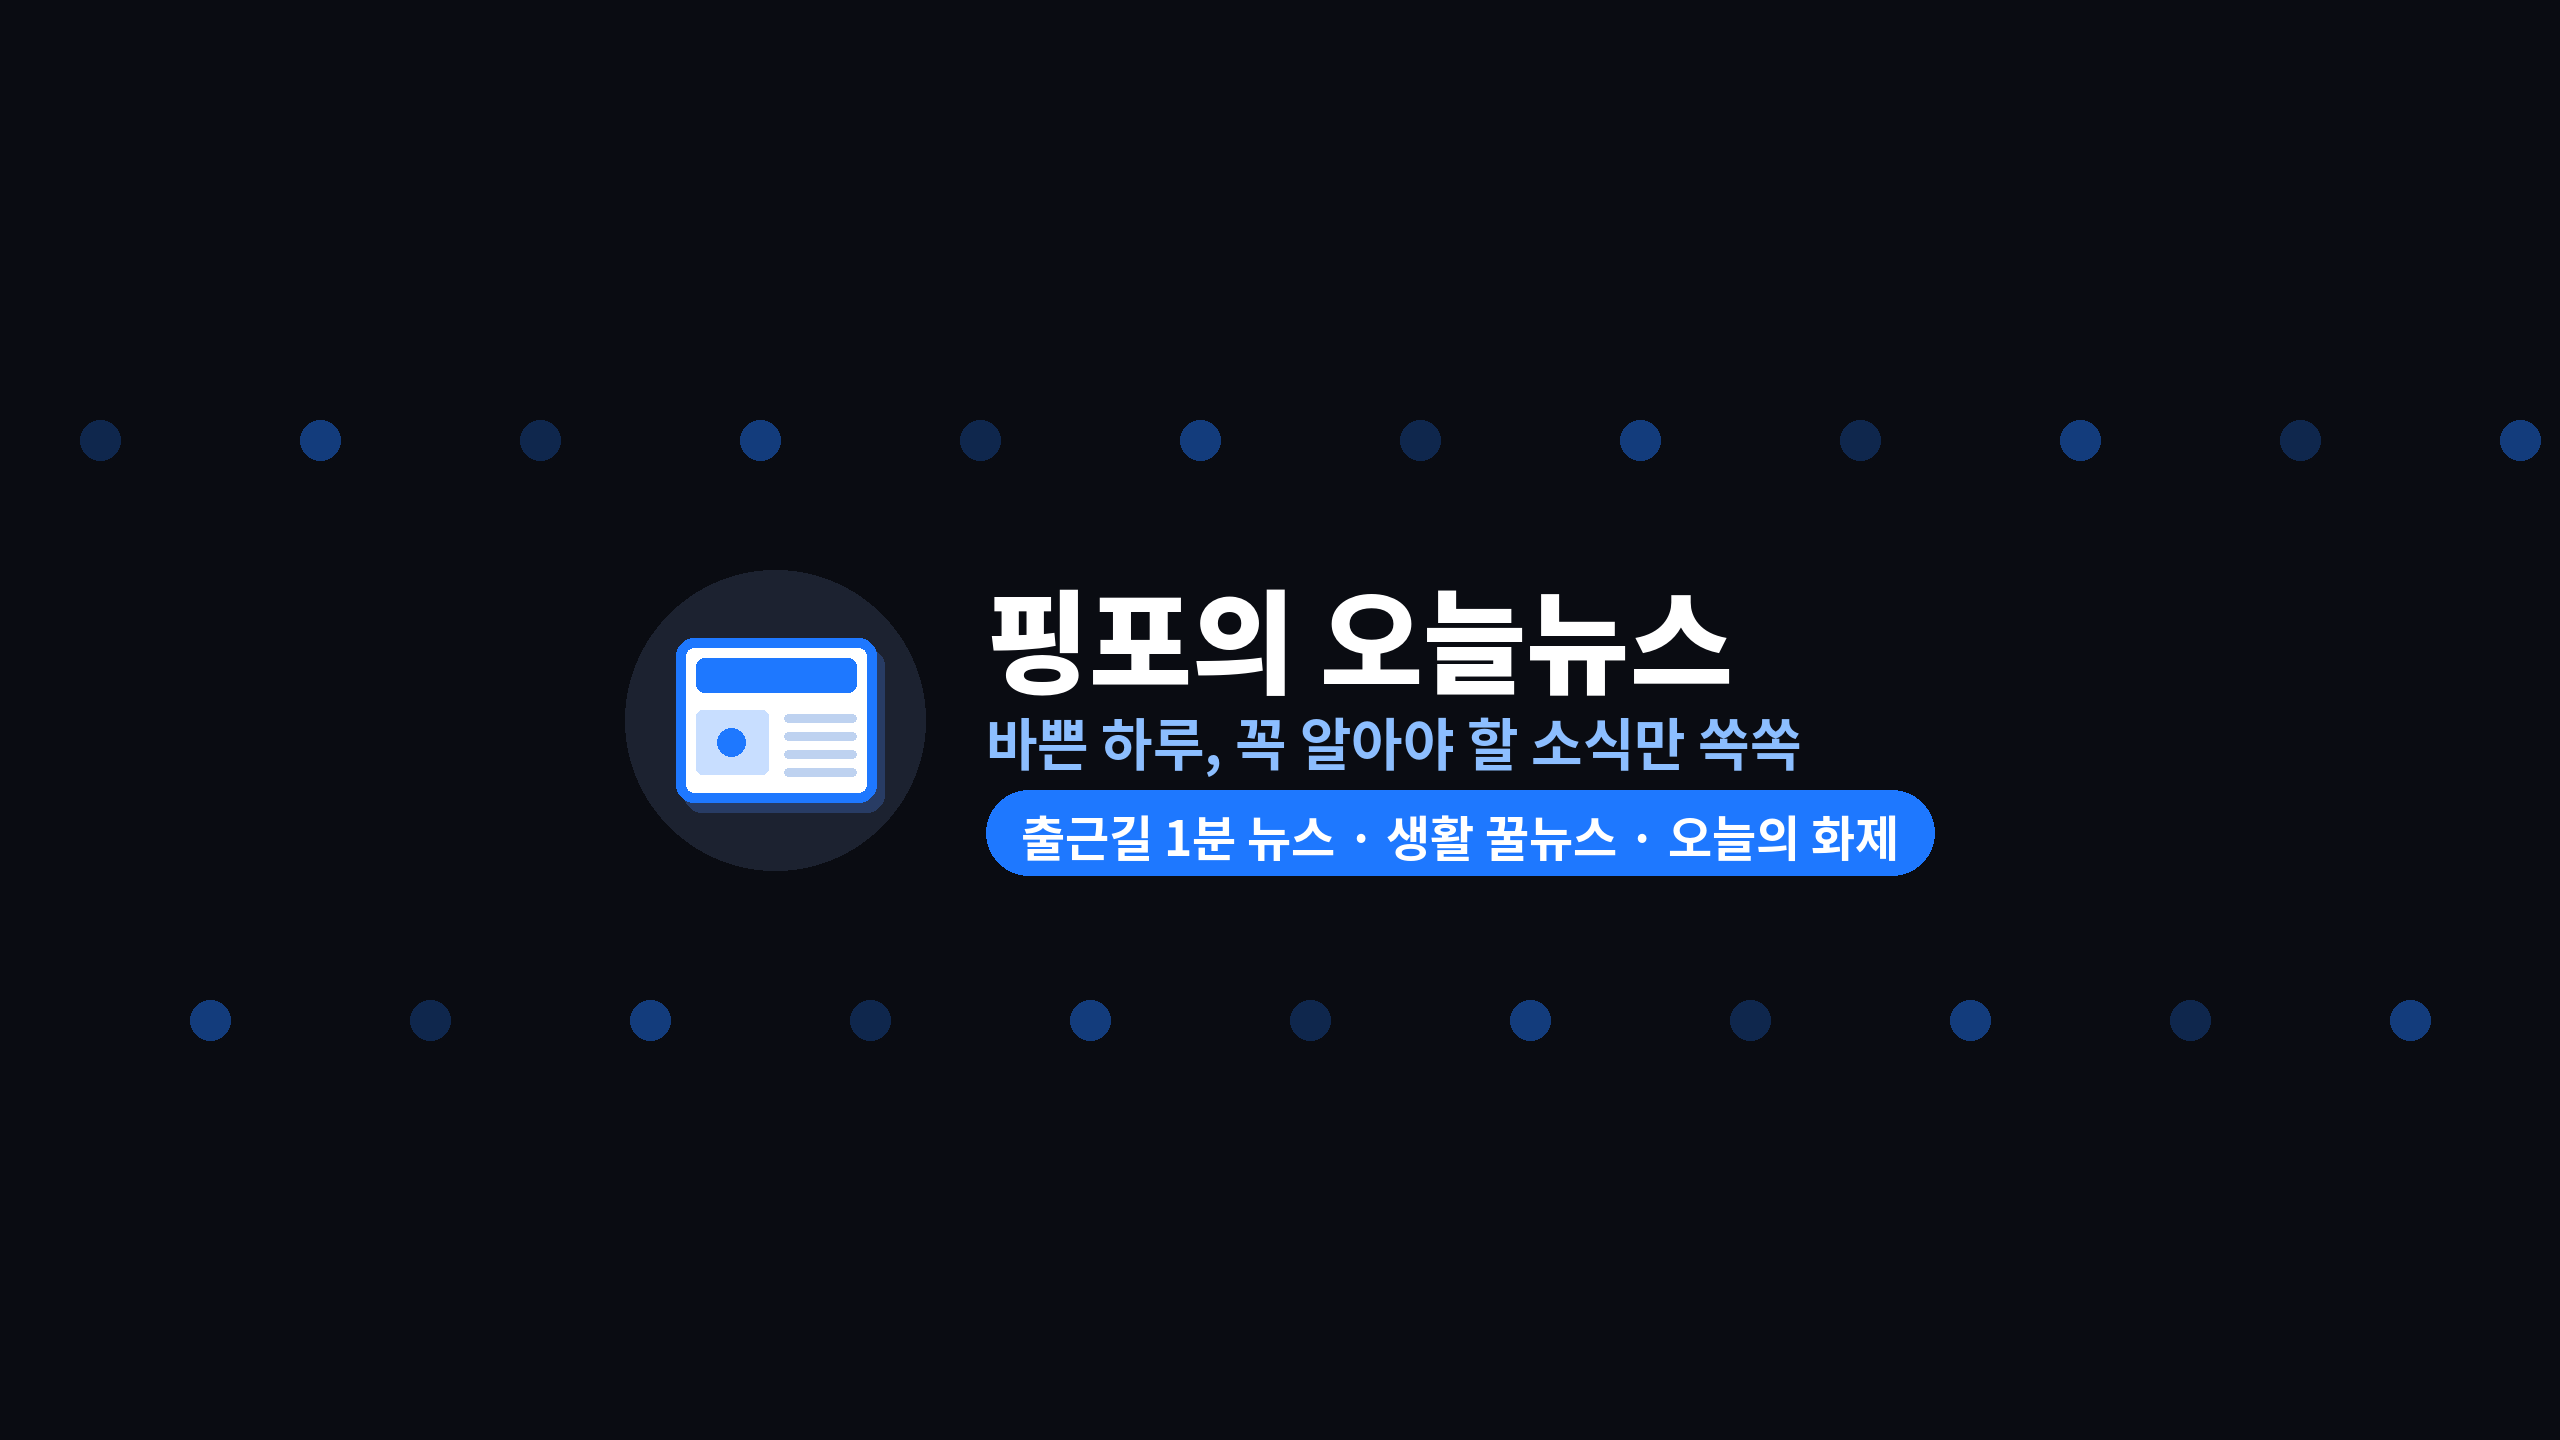
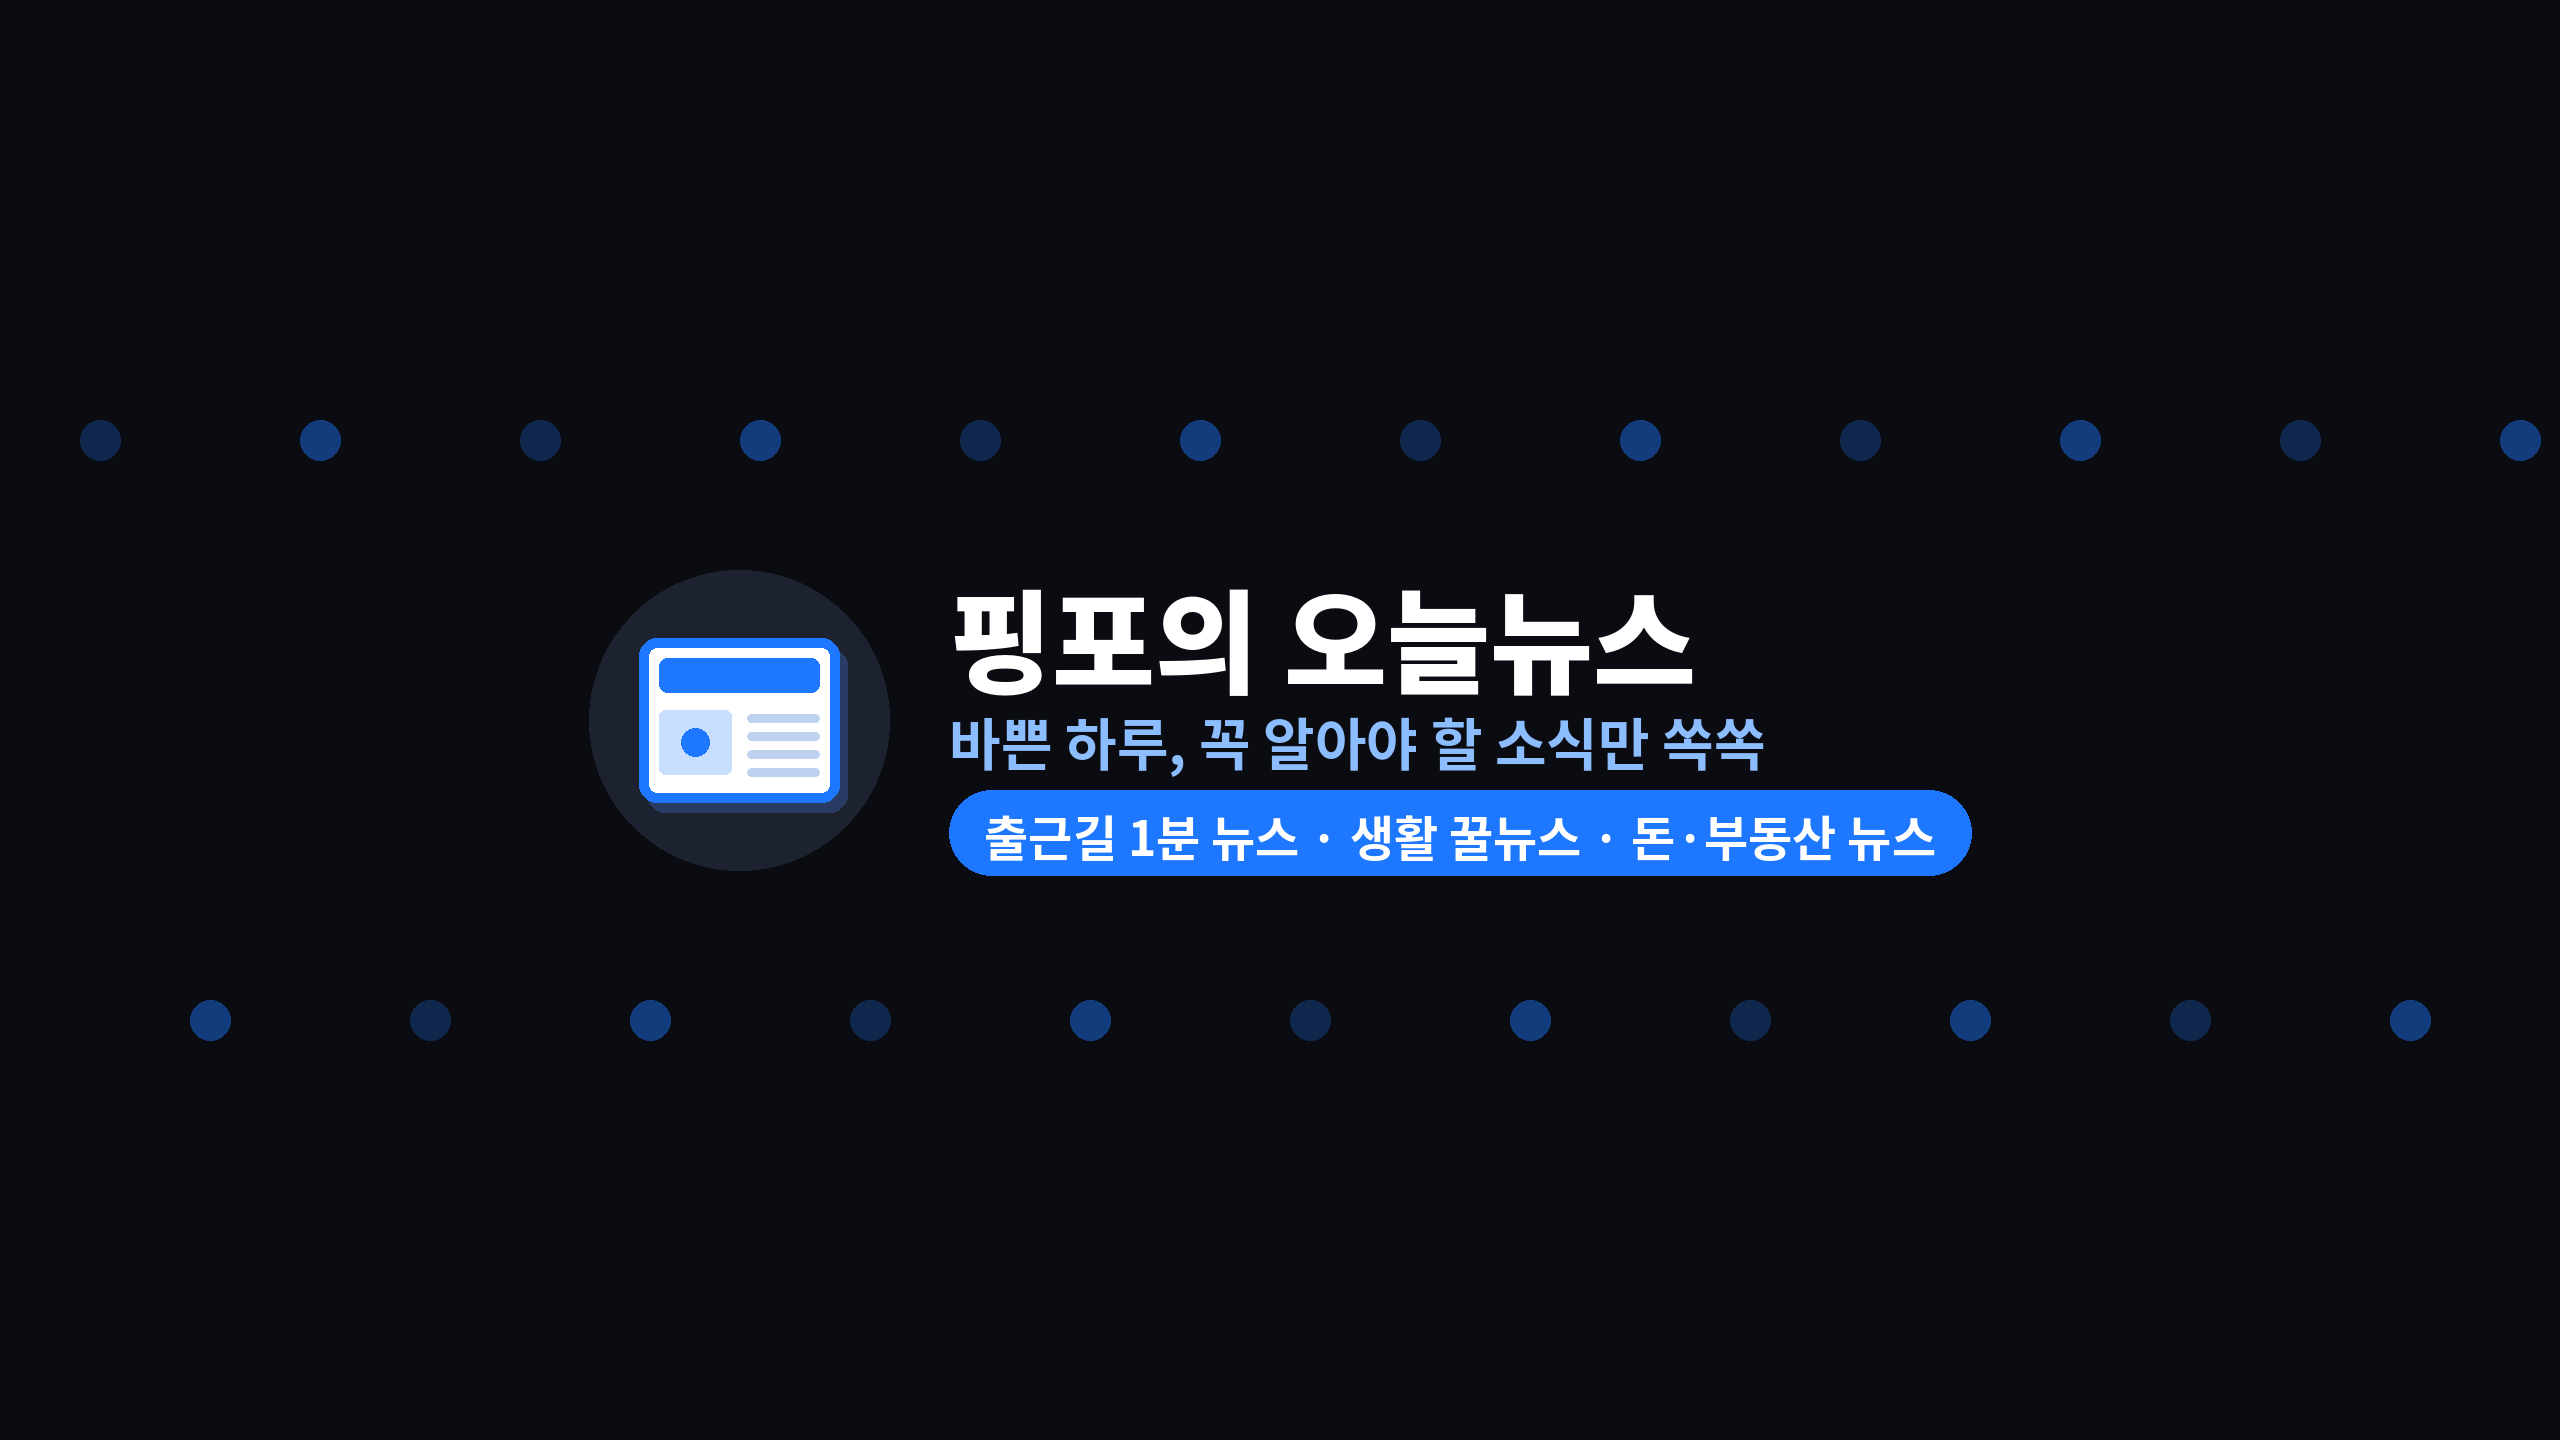
오늘뉴스 2주 실험: 저녁 코너 '돈·부동산 뉴스', 낮은 돈 관련 생활 소식 우선 (규칙·소개·배너)
Claude-Session: https://claude.ai/code/session_01WiWsqWXoN2BjPt3KMx4fdF

Changed region(s): [[0.2188, 0.4062, 0.7812, 0.625], [0.2812, 0.375, 0.3125, 0.4062]]

diff --git a/news/brand/make_brand.py b/news/brand/make_brand.py
@@ -52,7 +52,7 @@ for row, y in enumerate([440, 1020]):
         d.ellipse([x - 20, y - 20, x + 20, y + 20], fill=tuple(int(DOT[i] * a + SKY[i] * (1 - a)) for i in range(3)))
 cy = H // 2
 ft, fs, fp = F(BLACK, 112), F(BOLD, 56), F(BOLD, 48)
-title, sub, pill = "핑포의 오늘뉴스", "바쁜 하루, 꼭 알아야 할 소식만 쏙쏙", "출근길 1분 뉴스 · 생활 꿀뉴스 · 오늘의 화제"
+title, sub, pill = "핑포의 오늘뉴스", "바쁜 하루, 꼭 알아야 할 소식만 쏙쏙", "출근길 1분 뉴스 · 생활 꿀뉴스 · 돈·부동산 뉴스"
 textw = max(d.textlength(title, font=ft), d.textlength(sub, font=fs), d.textlength(pill, font=fp) + 70)
 R, gap = 150, 60
 total = 2 * R + gap + textw

diff --git a/news/WRITING_GUIDE.md b/news/WRITING_GUIDE.md
@@ -14,13 +14,20 @@
 | 실행 | 코너 | 라벨 | 내용 |
 |---|---|---|---|
 | 아침 | ☀ 출근길 1분 뉴스 | `출근길뉴스` | 맨 처음에 `<h2>⏱ 1분 요약</h2>` + 소식별 한 줄 요약 `<ul>`, 그다음 주요 뉴스 4~5개를 소식마다 h2 하나씩. 각 소식: 무슨 일인지 → 왜 중요한지 → 나한테 어떤 영향인지 |
-| 낮 | 🛒 생활 꿀뉴스 | `생활꿀뉴스` | 물가·지원금·세금·날씨·교통·바뀌는 제도 중 **하나를 깊게**. 대상·기간·방법·주의점을 표로 정리 |
-| 저녁 | 🔥 오늘의 화제 | `오늘의화제` | 오늘 많이 이야기된 트렌드·이슈 **하나**. 무슨 일인지 → 왜 화제인지 → 사람들 반응·쟁점(양쪽 고르게) → 나한테 의미. 같은 날 저녁 쇼츠(오늘의 화제)가 이 글을 바탕으로 만들어진다 |
+| 낮 | 🛒 생활 꿀뉴스 | `생활꿀뉴스` | **돈과 닿는 생활 소식 우선**: 지원금·세금·환급·대출·공과금·물가·바뀌는 제도 중 **하나를 깊게**. 대상·기간·방법·주의점을 표로 정리 (할인 행사 소개는 반응이 약해 피한다) |
+| 저녁 | 💰 돈·부동산 뉴스 | `돈부동산뉴스` | 오늘 나온 **집값·전세·월세·청약·금리·대출·주식 흐름** 소식 **하나**를 깊게. 무슨 일인지 → 왜 그런지(원인) → 나한테 어떤 영향인지(무주택자·대출자·전세 세입자처럼 상황별) → 확인할 곳(공식 누리집). 같은 날 저녁 쇼츠가 이 글을 바탕으로 만들어진다 |
 
 - 아침 글 제목: `[출근길 1분 뉴스] 11월 3일 월요일, 핵심 소식 + 궁금한 한 가지` (40자 안팎)
 - 생활 글 제목: 핵심 검색어를 맨 앞에. 예) `동절기 에너지바우처 신청 방법, 대상·금액·기간 한 번에 정리`
-- 저녁 글 제목: 화제 키워드를 맨 앞에. 예) `○○ 왜 화제? 오늘 난리 난 이유 한 번에 정리` (40자 안팎)
+- 저녁 글 제목: 핵심 검색어를 맨 앞에. 예) `서울 아파트 전셋값 ○주 연속 상승, 세입자가 지금 확인할 3가지` (40자 안팎)
 - 생활 꿀뉴스는 검색이 오래 들어오는 글이라 애드센스 심사에 가장 중요하다. 이미 쓴 주제(`news/data/posted.json`, `news/posts/` 제목)와 겹치지 않게 한다.
+
+## 💰 돈·부동산 뉴스 규칙 (2026-11-05 ~ 11-19, 2주 실험)
+- 쇼츠 첫 3일 성적: 주식·돈·소비 트렌드가 좋고(400~640회) 할인·행사는 약함(8~70회) → 돈 이야기로 기울여 본다.
+- 숫자는 **국토교통부·한국부동산원·한국은행·금융위원회·통계청** 발표나, 두 곳 이상 언론이 같은 숫자를 낸 것만 쓴다. 발표 날짜를 함께 적는다.
+- **투자 권유 절대 금지**: "지금 사세요/파세요/오를 거예요/떨어질 거예요" 같은 예측·권유를 쓰지 않는다. 전문가 전망을 쓸 땐 "~라는 전망이 나왔어요"로 출처와 함께, 반대 의견도 같이.
+- 특정 단지·종목·코인 추천 금지. 지역은 시·도·구 단위까지만.
+- 글 끝에 한 줄: "※ 투자·계약 판단은 본인의 몫이에요. 중요한 결정 전에는 공식 자료와 전문가 상담을 꼭 확인하세요."
 
 ## 뉴스 고르는 법
 1. 웹 검색으로 **오늘(한국 시간)** 주요 뉴스·실시간 검색어·포털 많이 본 뉴스를 3~5번 찾아본다.

diff --git a/news/SHORTS_GUIDE.md b/news/SHORTS_GUIDE.md
@@ -1,14 +1,14 @@
 # 🎬 핑포의 오늘뉴스 쇼츠 대본 규칙
 
 예약 작업이 뉴스 쇼츠 대본을 쓸 때 이 파일을 그대로 따른다. 뉴스 대본은 **`news/shorts/queue/`** 에만 둔다 (살림 쇼츠 `shorts/queue/` 와 섞지 않는다).
-금지 사항(저작권·정치 중립·사건사고·루머·투자 권유·실제 인물 이미지)은 `news/WRITING_GUIDE.md` 와 똑같이 지킨다.
+금지 사항(저작권·정치 중립·사건사고·루머·투자 권유·실제 인물 이미지)과 **돈·부동산 뉴스 규칙**은 `news/WRITING_GUIDE.md` 와 똑같이 지킨다. 돈·부동산 쇼츠 마지막 장면이나 설명란에 "투자 판단은 본인 몫"을 꼭 넣는다.
 
 ## 코너 (하루 3편, 실행 시간으로 정한다)
 | 실행 | 코너 | hook (화면 위 분홍 상자, 12자 이내) | 내용 |
 |---|---|---|---|
 | 아침 | 출근길 1분 뉴스 | `11월3일 출근길뉴스` 처럼 날짜+코너 | 오늘 주요 뉴스 **5개**를 "첫째, 둘째, 셋째, 넷째, 다섯째"로 (아래 출근길 예외 참고) |
-| 낮 | 생활 꿀뉴스 | 이득·결과 (`난방비 지원 신청법`) | 생활에 닿는 소식 하나: 대상·방법·마감 |
-| 저녁 | 오늘의 화제 | 화제 키워드 (`오늘 난리 난 그것`) | 오늘 많이 이야기된 트렌드 하나, 왜 화제인지 |
+| 낮 | 생활 꿀뉴스 | 이득·결과 (`난방비 지원 신청법`) | **돈과 닿는** 생활 소식 하나(지원금·세금·환급·대출·공과금·물가): 대상·방법·마감. 할인 행사는 피함 |
+| 저녁 | 돈·부동산 뉴스 | 결과·영향 (`전세 세입자 꼭 보세요`) | 오늘 나온 집값·전세·청약·금리·대출·주식 흐름 하나: 무슨 일 → 왜 → 나한테 영향 |
 
 - 같은 날 `news/data/posted.json` 에 블로그 글이 있으면 그 글을 바탕으로 쓰고 `blog_url` 에 주소를 넣는다.
 - 화면 글자(hook, scenes text)에는 **이모지를 쓰지 않는다** (영상 글꼴에 이모지가 없어 네모로 나온다). title·description·comment 에는 써도 된다.
@@ -27,7 +27,7 @@
 - 소식 **5개**, 장면 **7개**: 훅 1장면(15~25자) + "첫째"~"다섯째" 소식 하나에 한 장면씩(30~40자) + 마무리 1장면.
 - 대본 전체 170~200자·30초 미만 규칙 대신 **230~280자, 33~45초** (60초 미만이면 된다).
 - 목소리를 조금 빠르게: 대본 JSON 에 `"rate": "+40%"` 를 넣는다 (기본 +35%보다 5 빠르게).
-- 생활 꿀뉴스·오늘의 화제는 위 기본 규칙(22~28초) 그대로.
+- 생활 꿀뉴스·돈·부동산 뉴스는 위 기본 규칙(22~28초) 그대로.
 
 ## 그림 (bg)
 - 뉴스 쇼츠는 **AI 그림을 만들지 않고 고정 배경 한 장**(`news/brand/shorts-bg-blue_black.jpg`, 파랑·검정)을 모든 장면에 쓴다 (2026-11-03 핑포 결정: 뉴스는 사진보다 글 전달이 먼저, 무료 한도 때문에 업로드가 막히지 않게).
